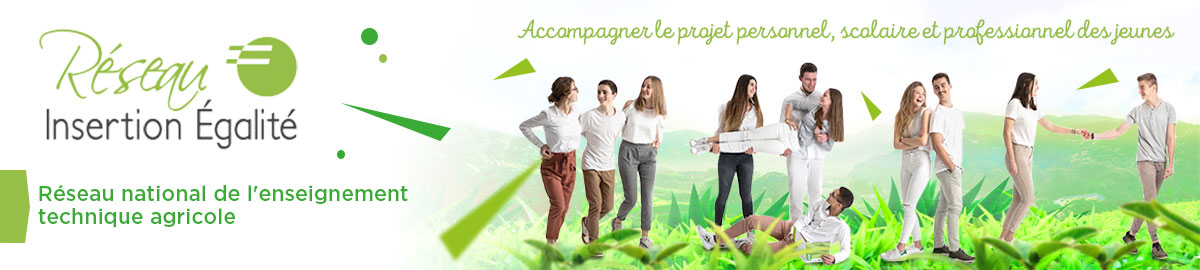
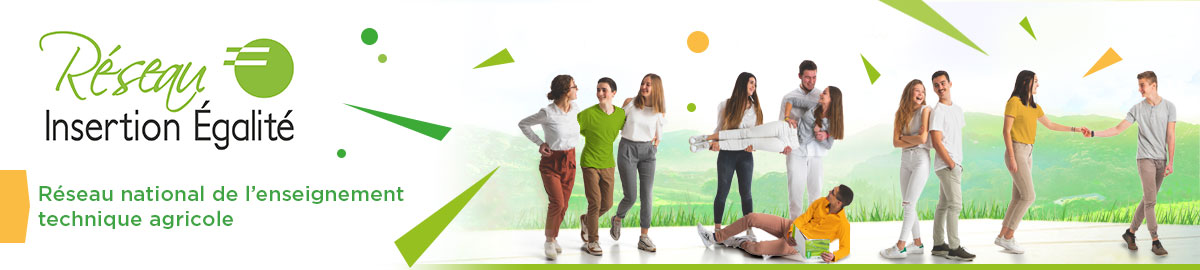
Met à jour la bannnière

diff --git a/styles/default.css b/styles/default.css
@@ -1,2 +1,2 @@
-.page{color:#767f88;padding:2em}.page h1{color:#98bf48}.page a{color:#f19900}.page li{margin-left:1em}.page .aceditor-toolbar a{color:black}*{box-sizing:border-box;padding:0;margin:0}html{background:#dcdcdc}body{font-size:16px;display:flex;flex-flow:column;justify-content:center;align-items:center;max-width:51em;box-shadow:0px 2px 5px rgba(0,0,0,0.26);margin:2em auto}#mainHeader,#mainFooter,#nav,#page,div.page{width:100%}#mainHeader{order:1}#nav{order:2}#page{order:3}#mainFooter{order:4}#nav{background:#f19900;box-shadow:0px 2px 5px rgba(0,0,0,0.26)}#nav .include{width:100%;height:100%;padding:0 2em}#nav .include ul{display:flex;flex-flow:column;justify-content:space-between;align-items:center;width:100%}#nav .include a{color:#f7f5f5;padding:1em;text-align:center}#nav .include a:visited{color:#f7f5f5}#nav .include a:hover{color:#f19900}#nav .include li:first-child{display:none;width:auto}@media (min-width: 770px){#nav .include{padding:0 1em}#nav .include a{text-align:left}#nav .include ul{flex-flow:row}#nav .include li:first-child{display:inherit}}#mainHeader{display:flex;align-items:center;flex-flow:column;background-image:url(../images/banniere.jpg);background-size:cover;padding:2em;min-height:10em}#mainHeader h1{font-size:1em;font-weight:700;color:#767f88;text-align:center}#mainFooter{padding:2em;background:#f7f5f5;color:#767f88}#mainFooter .include{text-align:center}
+.page{color:#767f88;padding:2em}.page h1{color:#98bf48}.page a{color:#f19900}.page li{margin-left:1em}.page .aceditor-toolbar a{color:black}*{box-sizing:border-box;padding:0;margin:0}html{background:#dcdcdc}body{font-size:16px;display:flex;flex-flow:column;justify-content:center;align-items:center;max-width:1200px;box-shadow:0px 2px 5px rgba(0,0,0,0.26);margin:2em auto}#mainHeader,#mainFooter,#nav,#page,div.page{width:100%}#mainHeader{order:1}#nav{order:2}#page{order:3}#mainFooter{order:4}.pagePrincipale figure{width:100%}.pagePrincipale figure h3{text-align:center}.pagePrincipale figure a img{width:100%;height:Auto}#nav{background:#f19900;box-shadow:0px 2px 5px rgba(0,0,0,0.26)}#nav .include{width:100%;height:100%;padding:0 2em}#nav .include ul{display:flex;flex-flow:column;justify-content:space-between;align-items:center;width:100%}#nav .include a{color:#f7f5f5;padding:1em;text-align:center}#nav .include a:visited{color:#f7f5f5}#nav .include a:hover{color:#f19900}#nav .include li:first-child{display:none;width:auto}@media (min-width: 770px){#nav .include{padding:0 1em}#nav .include a{text-align:left}#nav .include ul{flex-flow:row}#nav .include li:first-child{display:inherit}}#mainHeader{display:flex;align-items:center;flex-flow:column;background-image:url(../images/banniere.jpg);background-size:cover;padding:0;height:270px}#mainHeader a{display:block;width:100%;height:100%;margin:0}#mainFooter{padding:2em;background:#f7f5f5;color:#767f88}#mainFooter .include{text-align:center}
 /*# sourceMappingURL=default.css.map */

diff --git a/squelettes/default.tpl.html b/squelettes/default.tpl.html
@@ -16,10 +16,10 @@
     {{include page="PageMenuHaut" doubleclic="1"}}
   </nav>
   <header id='mainHeader'>
-    <!--<a href='./'>
-      <img src='themes/insertion-egalite/images/logo.png' alt="Logo réseau insertion égalité"/>
+    <a href='./'>
+      <!--<img src='themes/insertion-egalite/images/logo.png' alt="Logo réseau insertion égalité"/>-->
     </a>
-    <h1>Réseau national de l'enseignement technique agricole</h1>-->
+    <!--<h1>Réseau national de l'enseignement technique agricole</h1>-->
   </header>
   <footer id='mainFooter'>
     {{include page="PageFooter" doubleclic="1"}}

diff --git a/styles/scss/header.scss b/styles/scss/header.scss
@@ -7,13 +7,13 @@
   background-image: url(../images/banniere.jpg);
   background-size: cover;
 
-  padding: $padding;
-  min-height: 10em;
+  padding: 0;
+  height: 270px;
 
-  h1 {
-    font-size: 1em;
-    font-weight: $bold;
-    color: $color-text;
-    text-align: center;
+  a {
+    display: block;
+    width: 100%;
+    height: 100%;
+    margin: 0;
   }
 }

diff --git a/styles/scss/default.scss b/styles/scss/default.scss
@@ -42,6 +42,19 @@ body {
   order: 4;
 }
 
+.pagePrincipale {
+  figure {
+    width: 100%;
+    h3 {text-align: center;}
+    a {
+      img {
+        width: 100%;
+        height: Auto;
+      }
+    }
+  }
+}
+
 @import 'nav';
 @import 'header';
 @import 'footer';

diff --git a/styles/scss/vars.scss b/styles/scss/vars.scss
@@ -7,5 +7,5 @@ $color-tertiary: rgba(247, 245, 245, 1);
 $bold: 700;
 $semiBold: 600;
 
-$text-width: 51em;
+$text-width: 1200px;
 $padding: 2em;
